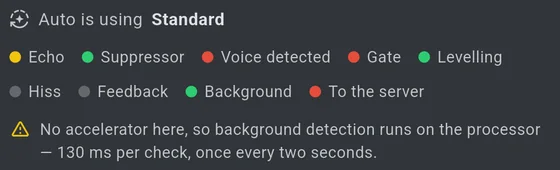
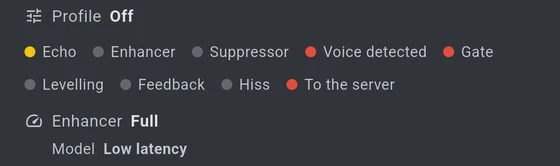
Screenshots: one for the new setting, one that showed a removed feature
**set-claimmic.webp** is new — the settings page documented Claim the
microphone with no picture of it. Captured on the emulator from a fresh
install, which also shows the switch already on and so doubles as a check
that the new default lands.

**diag-lights-phone.webp** is replaced. It showed ten stage dots
including *background* and a line about what background detection cost
per check; the classifier is gone from the chain, so the panel now draws
nine and neither the dot nor the cost exists. The alt text and caption in
both languages described what was in the old image, which is the right
way round — so the fix was a new image, not new words over the old one.

The new one confirms the documentation change independently: the panel
drew exactly echo, enhancer, suppressor, voice detected, gate, levelling,
feedback, hiss and to the server.

**diag-classifier-phone.webp** is deleted. It was the three classifier
score rows, and nothing references it now.

Both captures needed a working APK, which took finding out why the last
two did not have one: run from Bash, `flutter build apk` puts Git's
coreutils `link` ahead of MSVC's, every host build script fails to link,
cargokit reports it as SEVERE lines and Gradle still exits 0 with an APK
that has no `librust_lib_mumbleway.so` in any ABI. It installs and dies
in dlopen before `main`. CLAUDE.local.md documents the PATH cause; the
silent-success half is what makes it dangerous.
[…]

diff --git a/docs/diagnostics.md b/docs/diagnostics.md
@@ -46,14 +46,14 @@ switch to remember.
 <div class="shots">
   <figure>
     <img src="{{ '/assets/img/shots/diag-lights-phone.webp' | relative_url }}"
-         alt="The profile Automatic has landed on, then two rows of coloured
-              dots labelled enhancer, echo, suppressor, voice detected, gate,
-              levelling, hiss, feedback, background and to the server, and a
-              note saying background detection is running on the processor at
-              130 milliseconds per check."
-         width="560" height="170" loading="lazy" decoding="async">
-    <figcaption>Where Automatic landed, every stage of the chain, and what the
-    classifier costs on this device.</figcaption>
+         alt="The profile in force, then two rows of coloured dots labelled
+              echo, enhancer, suppressor, voice detected, gate, levelling,
+              feedback, hiss and to the server, and below them the enhancer's
+              effort and which model it is running."
+         width="560" height="166" loading="lazy" decoding="async">
+    <figcaption>One dot per stage. Nothing is connected here, so the gate is
+    shut and <strong>to the server</strong> is red — a grey dot is a stage with
+    no opinion yet.</figcaption>
   </figure>
 </div>
 

diff --git a/docs/settings.md b/docs/settings.md
@@ -78,6 +78,17 @@ On a headset there is no echo to cancel and it can only take something away.
 
 ### Claim the microphone
 
+<div class="shots">
+  <figure>
+    <img src="{{ '/assets/img/shots/set-claimmic.webp' | relative_url }}"
+         alt="The Claim the microphone row, switched on, above its explanation
+              of what the phone's own call processing does and what it costs."
+         width="560" height="411" loading="lazy" decoding="async">
+    <figcaption>On by default. The switch that stops another app taking the
+    microphone — and lets the phone add its own processing to ours.</figcaption>
+  </figure>
+</div>
+
 **On by default.** It hands the microphone to the phone's own call processing —
 the same treatment an ordinary phone call gets.
 
